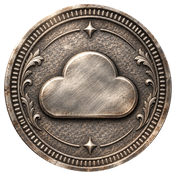
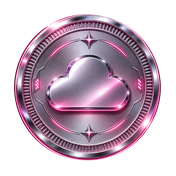
Тест: нова рожева монетка ультравалюти з пульсуючим рожевим сяйвом
Claude-Session: https://claude.ai/code/session_01JjkokuBtGv7PFWC2prMy6x

diff --git a/catalog/view/theme/default/css/dark.css b/catalog/view/theme/default/css/dark.css
@@ -35,6 +35,8 @@ html{scrollbar-color:#3a3d4a #131419}
 img.header__logo,.header__logo img{filter:invert(1);mix-blend-mode:screen}
 p[style*="color:#000"],p[style*="color: #000"],span[style*="color:#000"],div[style*="color:#000"]{color:#c9cbd3!important}
 
+/* монетка ультравалюти в Battle Pass — рожеве сяйво */
+img[src*="daily-ultra"]{border-radius:50%;filter:drop-shadow(0 0 5px rgba(255,62,165,.9)) drop-shadow(0 0 16px rgba(255,62,165,.5))}
 /* ===== автоматично з style.css ===== */
 .swiper-pagination-bullet{background:var(--swiper-pagination-bullet-inactive-color,#252731)}
 .swiper-cube .swiper-cube-shadow:before{background:#252731}
